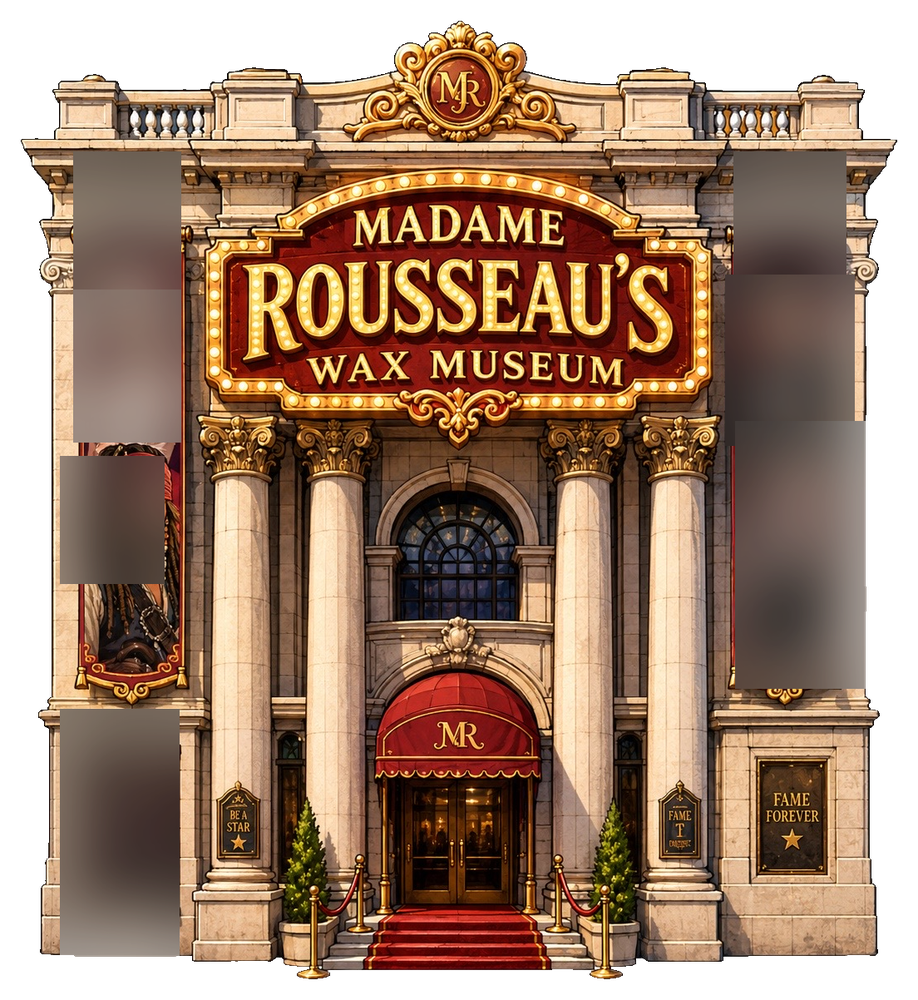
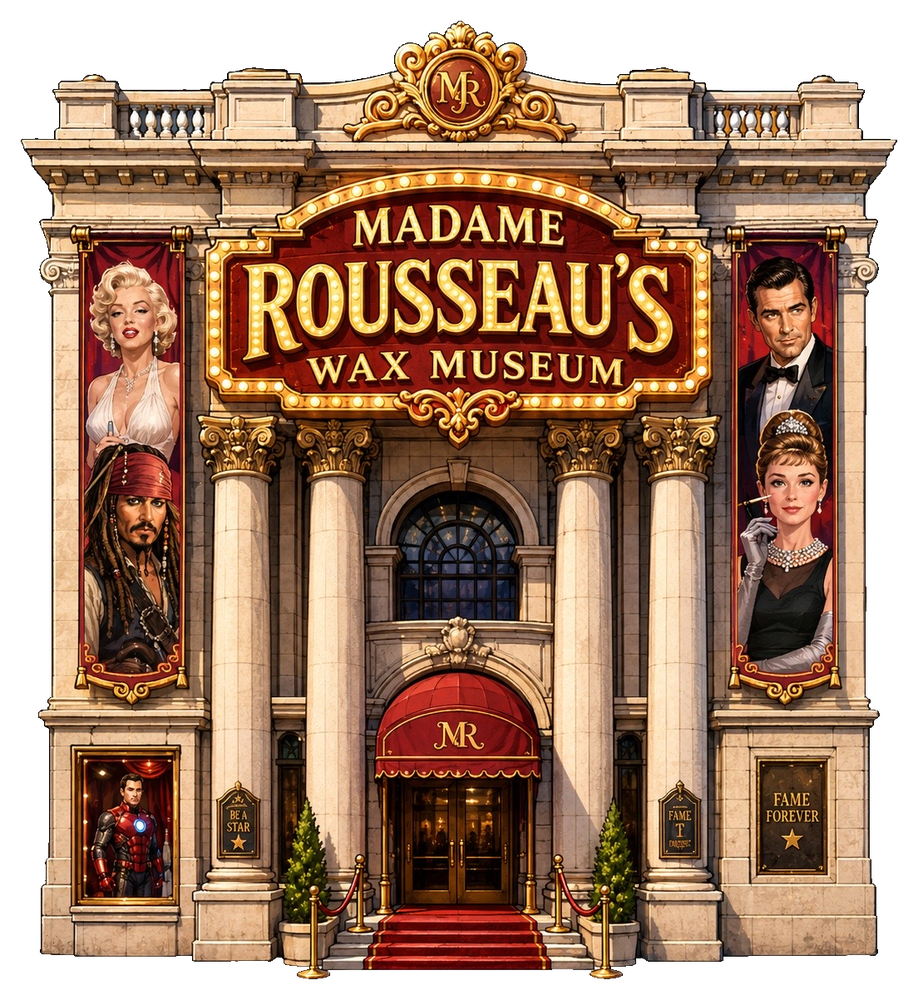
Restore original Madame Rousseau facade (un-blurred) for the dev build
The blurred celebrity banners read as ugly gray smudges. Revert to the crisp
keyed original for now; a copyright-safe replacement will be generated before
any store release. Added a pre-launch TODO in the buildings README so the swap
isn't forgotten.

Claude-Session: https://claude.ai/code/session_01MzT91WcyqemncboiCffQLx

Changed region(s): [[0.793, 0.155, 0.9455, 0.713], [0.061, 0.155, 0.2135, 0.589], [0.061, 0.682, 0.2135, 0.961]]

diff --git a/public/buildings/README.md b/public/buildings/README.md
@@ -19,6 +19,11 @@ Save it as `<stem>.png` from the map below (or any name — I can recognize the
 landmark and rename it). White, black, or transparent backgrounds all work; I
 key + crop + downscale it and it appears in its slot with no code change.
 
+> ⚠ **Pre-launch TODO — `madame-rousseau.png`:** the wax-museum banners currently
+> show recognizable real-celebrity / trademarked-character likenesses (kept as-is
+> for the dev build because the blurred version looked bad). **Replace this asset
+> with a copyright-safe generation before any App Store / public release.**
+
 ## Filename map (fictional name → file → real basis · size) — ✅ all placed
 
 | Save as | Building | Based on | Size |
